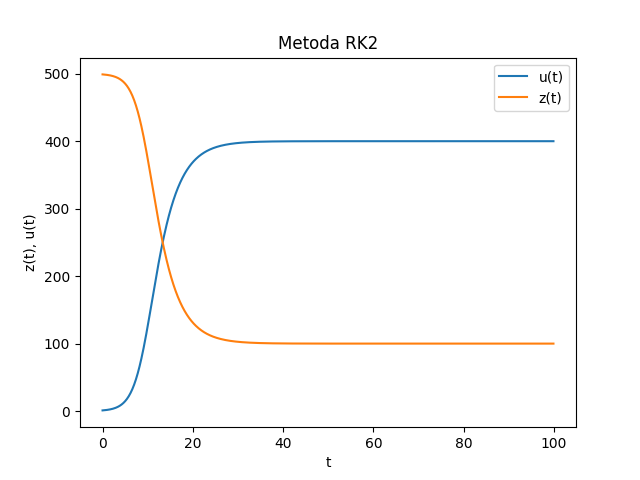
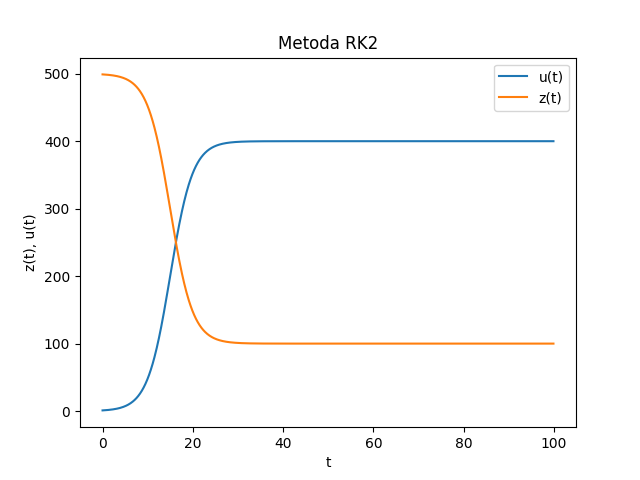
numerki lab2.1

Changed region(s): [[0.1562, 0.1562, 0.4375, 0.8438], [0.3125, 0.6875, 0.4375, 0.7188], [0.1562, 0.8438, 0.1875, 0.875]]

diff --git a/metody_numeryczne/sem5/lab2/lab2.py b/metody_numeryczne/sem5/lab2/lab2.py
@@ -56,8 +56,6 @@ def mRK2(beta, N, gamma, tMax, dt, u0, TOL):
 		un = u[i-1]
 		un1 = u[i-1]
 		un2 = u[i-1]
-		temp1 = un1
-		temp2 = un2
 				
 		for j in range(20):
 			F1 = un1 - un - dt*(a11*(alpha*un1 - beta*un1**2) + a12*(alpha*un2 - beta*un2**2))
@@ -70,14 +68,14 @@ def mRK2(beta, N, gamma, tMax, dt, u0, TOL):
 			dU1 = (m12*F2 - m22*F1)/det #27
 			dU2 = (m21*F1 - m11*F2)/det
 			
-			temp1 += dU1 #20
-			temp2 += dU2
+			un1 += dU1 #20
+			un2 += dU2
 			if abs(dU1 - un1 ) < TOL or abs(dU2 - un2) < TOL:
 				break
 			try:
-				u[i] = un + dt*(b1*(alpha*temp1 - beta*temp1**2) + b2*(alpha*temp2 - beta*temp2**2))
+				u[i] = un + dt*(b1*(alpha*un1 - beta*un1**2) + b2*(alpha*un2 - beta*un2**2))
 			except IndexError:
-				u.append(un + dt*(b1*(alpha*temp1 - beta*temp1**2) + b2*(alpha*temp2 - beta*temp2**2)))
+				u.append(un + dt*(b1*(alpha*un1 - beta*un1**2) + b2*(alpha*un2 - beta*un2**2)))
 	return t, u	
 
 
